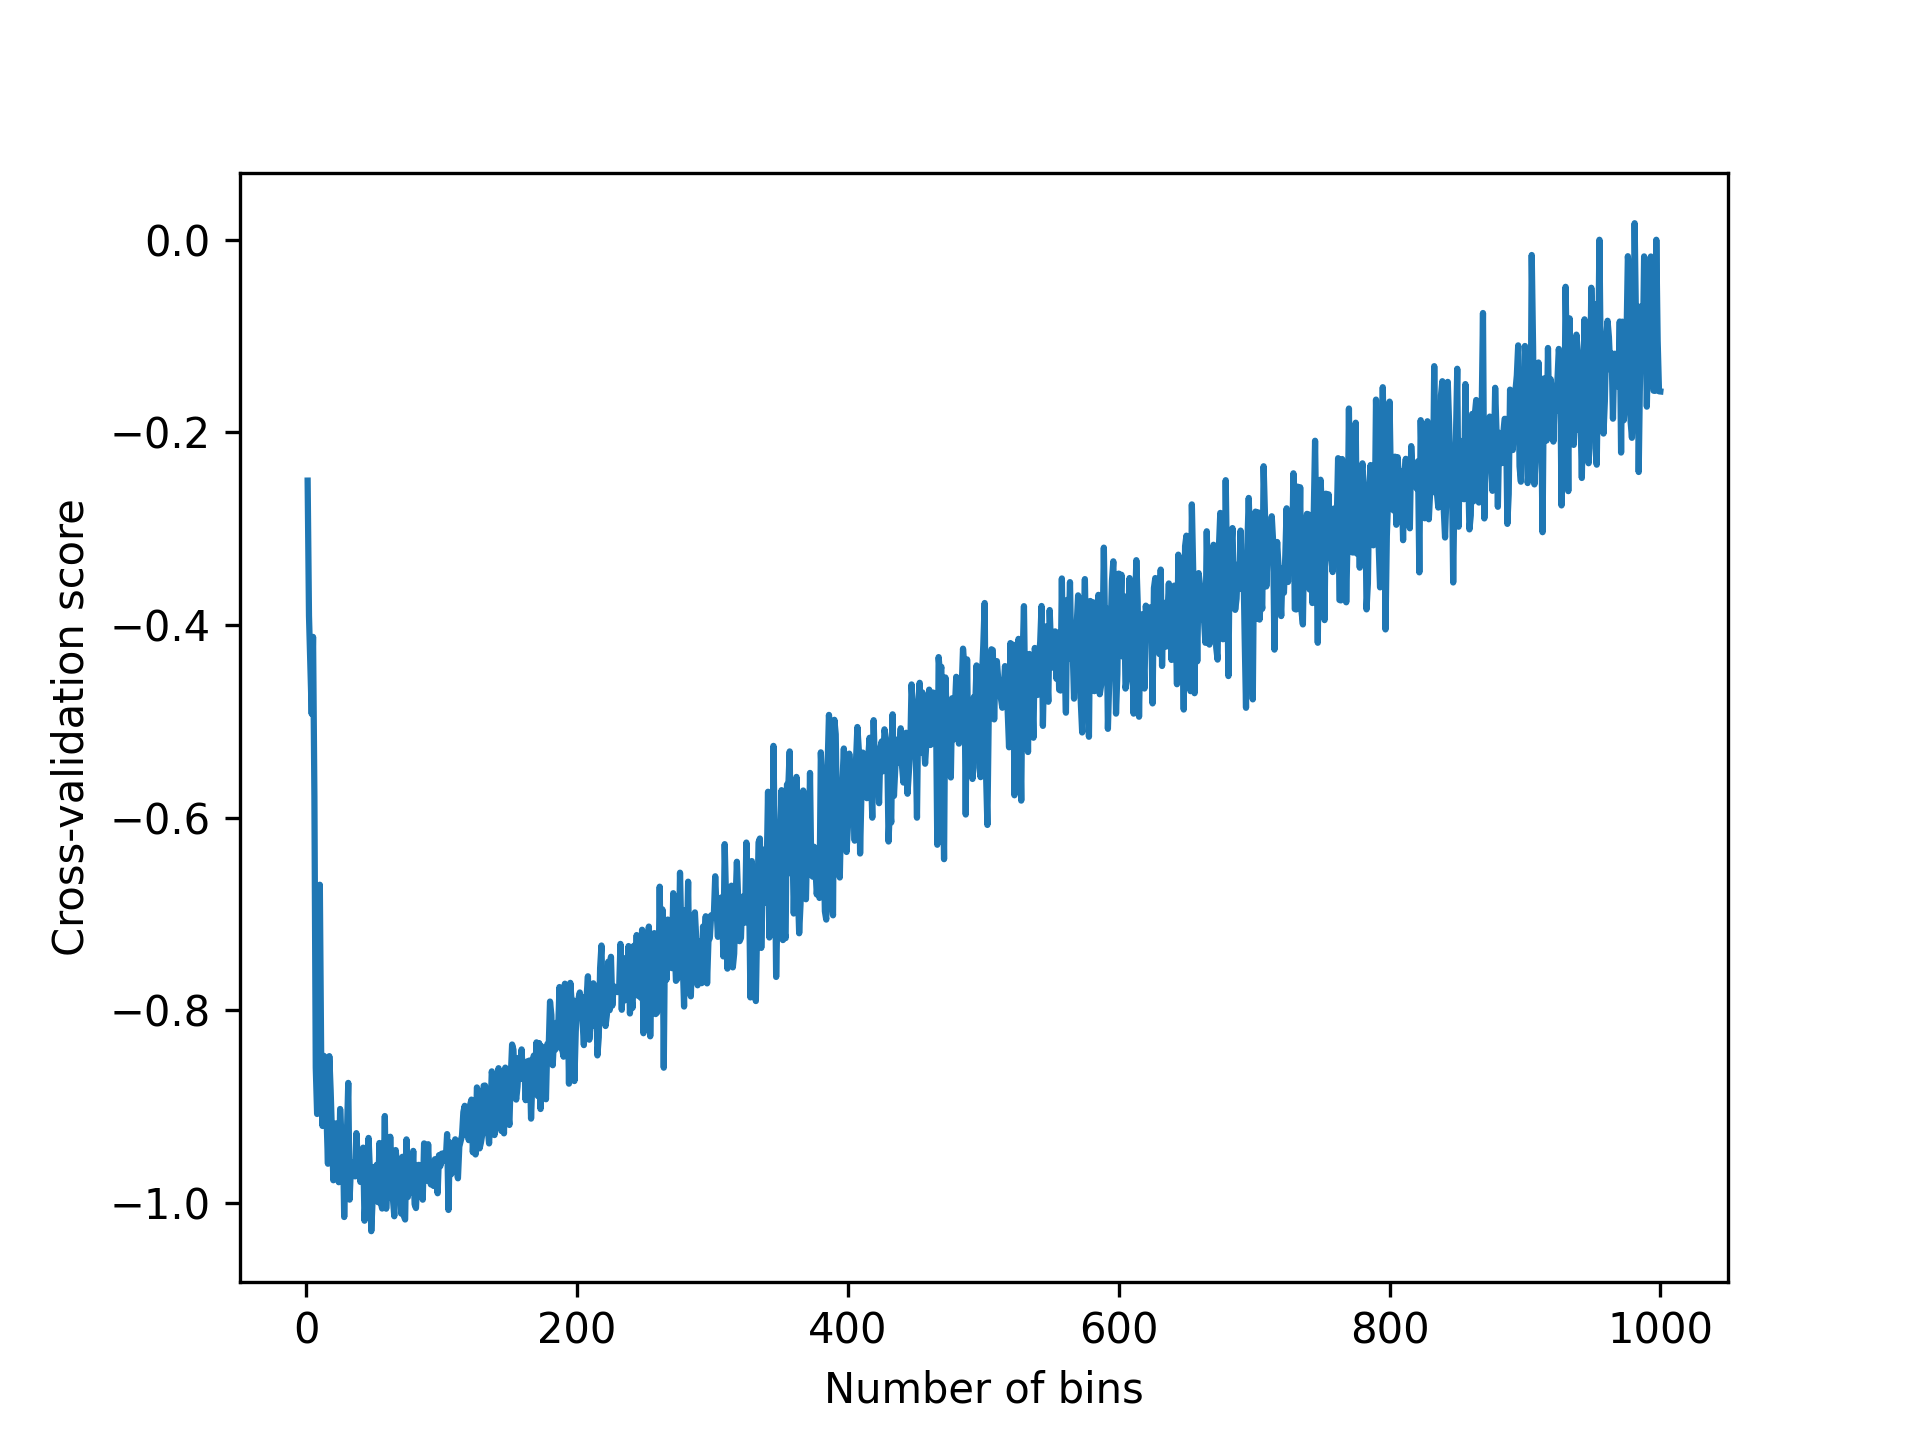
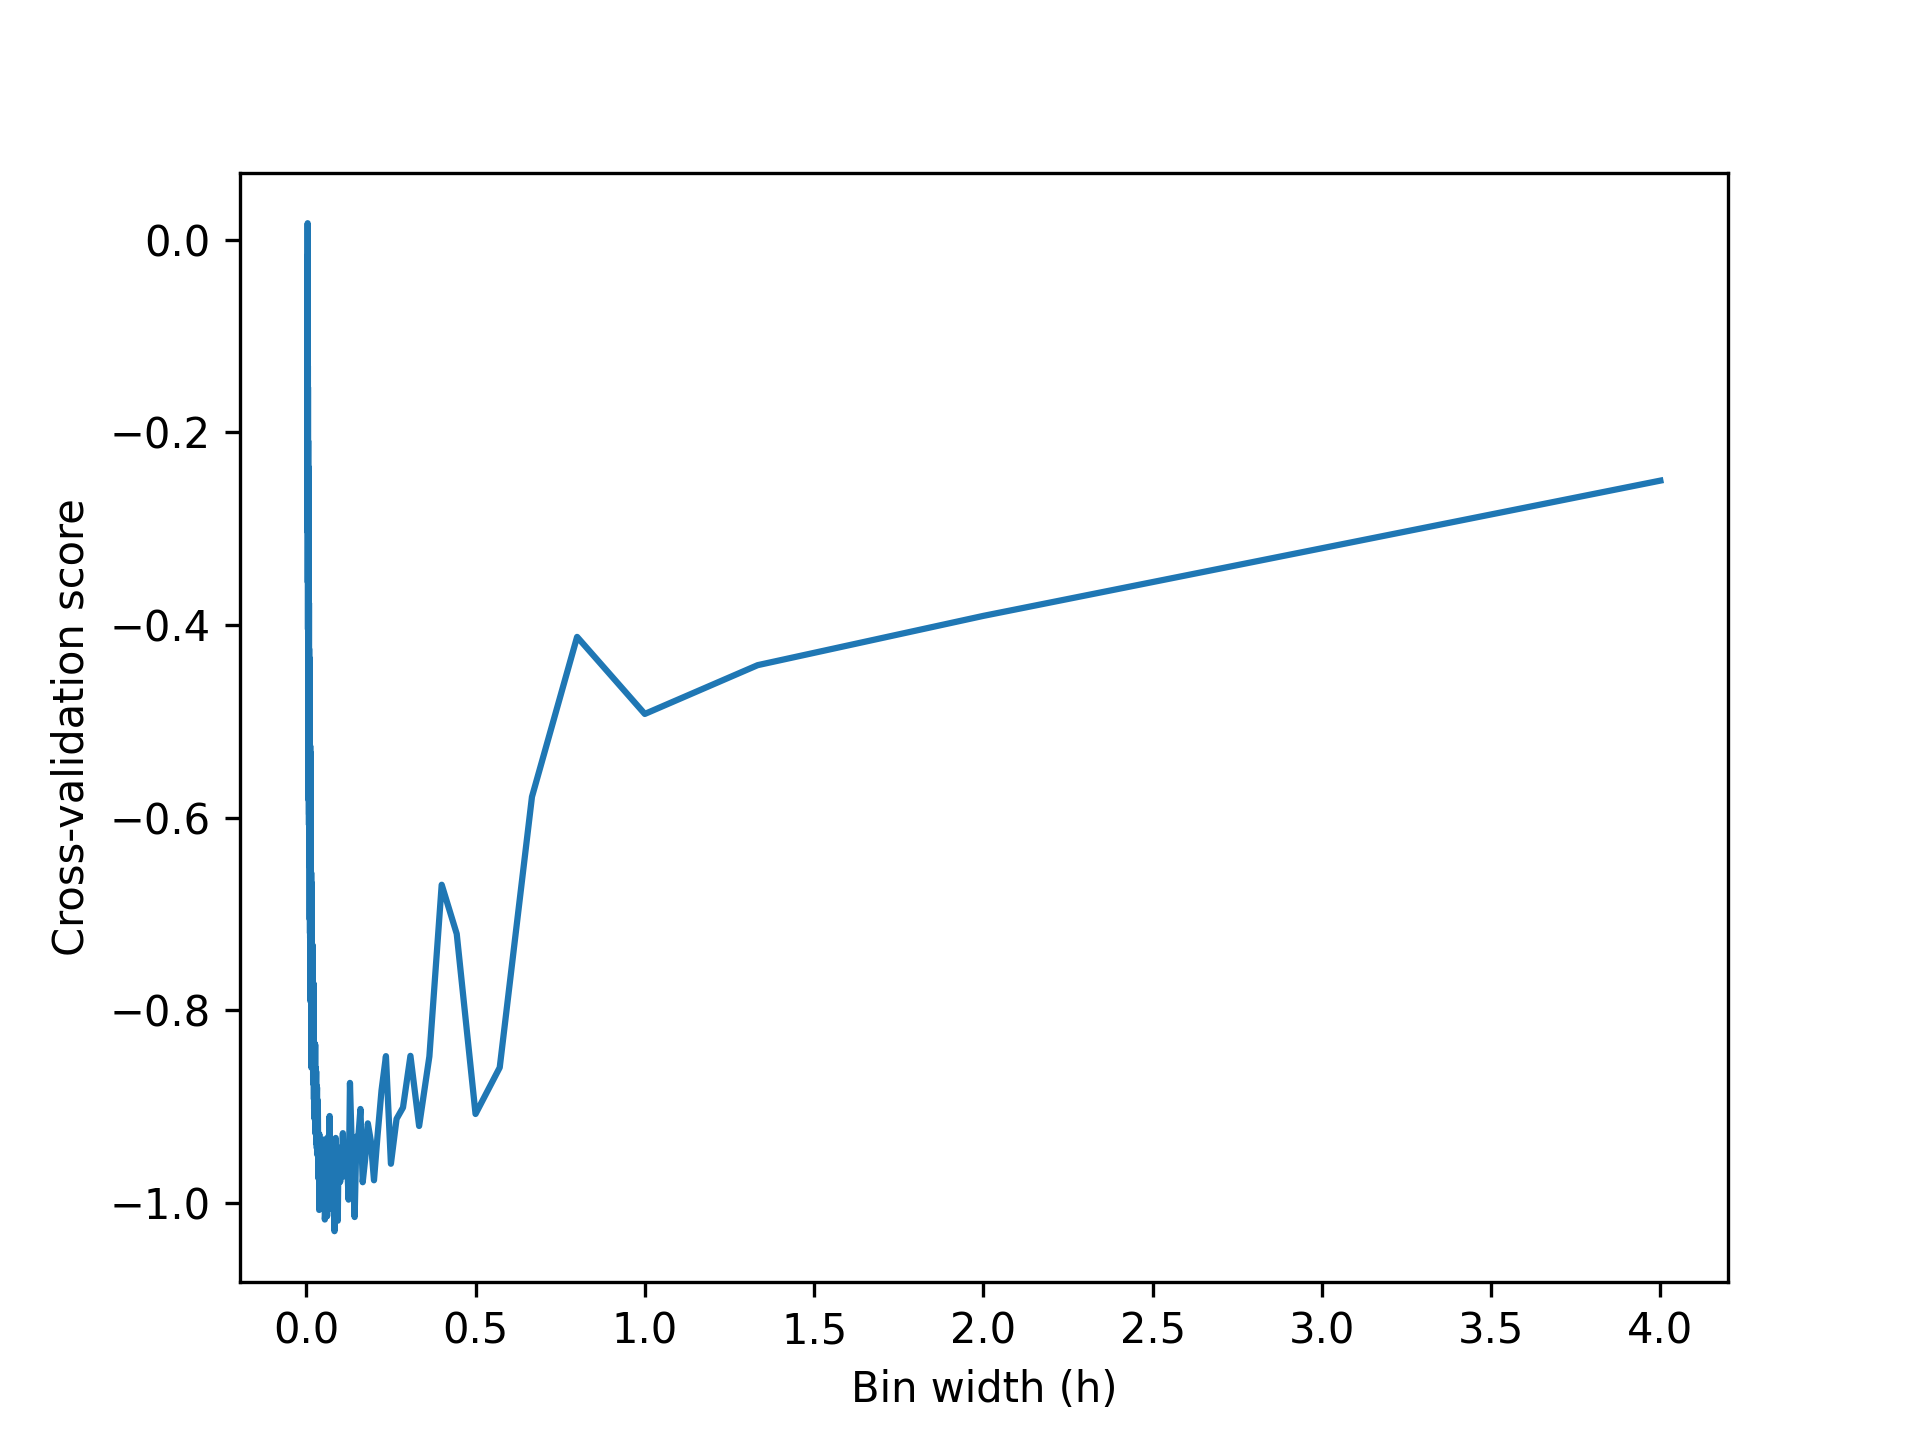
Modify A3-P1

diff --git a/A3/tex/problem1.tex b/A3/tex/problem1.tex
@@ -1,0 +1,60 @@
+\section{Finding optimal bandwidth}
+\subsection{}
+If $x\in B_j$, then
+\begin{align*}
+	\hat{f}(x) & = \frac{\textrm{number of observations within }B_j}{n} \times \frac{1}{\textrm{length of the bin}} \\
+	           & =  \frac{v_j}{n} \times \frac{1}{h}
+\end{align*}
+Since $x$ belongs to exactly one $B_j$, we can write
+\begin{align*}
+	\hat{f}(x)   & = \sum_{j=1}^m \frac{v_j}{nh} I(x\in B_j)                                                                                      \\
+	\hat{f}(x)^2 & = \frac{1}{n^2h^2} \left(\sum_{j=1}^m I(x\in B_j) v_j \right)^2                                                                \\
+	             & = \frac{1}{n^2h^2} \left(\sum_{j=1}^m I(x\in B_j)^2 v_j^2 + 2\sum_{1\leq i < j \leq m} I(x \in B_i)I(x \in B_j)v_i v_j \right)
+\end{align*}
+Again, since $x$ belongs to exactly one $B_j$, i.e., $I(x\in B_j)$ for exactly one $j$. Thus, we can say that $I(x\in B_i) I(x\in B_j) = 0$ for distinct $i$ and $j$.
+Also, $I(x\in B_j)^2 = I(x\in B_j)$, as $I(x\in B_j)$ is either 0 or 1. Thus, we can write
+\begin{align*}
+	\hat{f}(x)^2         & = \frac{1}{n^2h^2} \sum_{j=1}^m I(x\in B_j) v_j^2         \\
+	\int \hat{f}(x)^2 dx & = \frac{1}{n^2h^2} \sum_{j=1}^m v_j^2 \int I(x\in B_j) dx
+\end{align*}
+$I(x\in B_j)$ is one, only over $B_j$. So, the integral is the length of $B_j$, i.e., $h$. Thus, we can write
+\begin{align*}
+	\int \hat{f}(x)^2 dx            & = \frac{1}{n^2h^2} \sum_{j=1}^m v_j^2 h \\
+	\therefore \int \hat{f}(x)^2 dx & = \frac{1}{n^2h} \sum_{j=1}^m v_j^2
+\end{align*}
+\subsection{}
+\subsubsection*{(a)}
+\vspace{-30pt}
+\begin{figure}[H]
+	\centering
+	\includegraphics[width=0.6\textwidth]{images/10binhistogram.png}
+	\caption{Histogram with 10 bins}
+\end{figure}
+The estimated probabilities for the bins are\\
+\texttt{[0.00588235 0.38235294 0.32352941 0.05294118 0.11176471 0.1
+			0.00588235 0.         0.01176471 0.00588235]}
+
+\subsubsection*{(b)}
+The probability distribution is an underfit, as the histogram has too few bins to capture the distribution of the data. The histogram is too smooth and does not capture the rough peaks of the actual distribution.
+
+\subsubsection*{(c)}
+\vspace{-30pt}
+\begin{figure}[H]
+	\centering
+	\includegraphics[width=0.6\textwidth]{images/crossvalidation.png}
+	\caption{Cross-validation score for 1-1000 bins}
+\end{figure}
+
+\subsubsection*{(d)}
+Based on the cross-validation score, the optimal value of bin width is 0.083, and the optimal bin count is 48.
+
+\subsubsection*{(e)}
+\vspace{-30pt}
+\begin{figure}[H]
+	\centering
+	\includegraphics[width=0.6\textwidth]{images/optimalhistogram.png}
+	\caption{Histogram with 48 bins}
+\end{figure}
+
+\subsubsection*{(f)}
+Code is provided in \texttt{code/1.py}.

diff --git a/A3/code/1.py b/A3/code/1.py
@@ -25,21 +25,26 @@ def cross_validation(p, n, h):
 
 
 J = np.zeros(1000)
+binwidth = np.zeros(1000)
 for bincount in range(1, 1001):
     v, bins = np.histogram(df["D (Mpc)"], bins=bincount, range=(0, 4))
+    binwidth[bincount - 1] = bins[1] - bins[0]
     p = v / n
-    J[bincount - 1] = cross_validation(p, n, bins[1] - bins[0])
+    J[bincount - 1] = cross_validation(p, n, binwidth[bincount - 1])
 
 plt.close()
-plt.plot(list(range(1, 1001)), J)
-plt.xlabel("Number of bins")
+plt.plot(binwidth, J)
+plt.xlabel("Bin width (h)")
 plt.ylabel("Cross-validation score")
 plt.savefig("crossvalidation.png")
 
-optimal_h = np.argmin(J) + 1
-print("The optimal bincount is", optimal_h)
+optimal_count = np.argmin(J) + 1
+optimal_h = binwidth[optimal_count - 1]
+print("The optimal bincount is", optimal_count)
+print("The optimal binwidth is", optimal_h)
 
-plt.hist(df["D (Mpc)"], bins=optimal_h, range=(0, 4))
+plt.close()
+plt.hist(df["D (Mpc)"], bins=optimal_count, range=(0, 4))
 plt.xlabel("Distance (Mpc)")
 plt.ylabel("Count")
 plt.savefig("optimalhistogram.png")

diff --git a/A3/main.tex b/A3/main.tex
@@ -9,6 +9,7 @@
 \usepackage{tikz}
 \usepackage{float}
 \usepackage{url}
+\usepackage{bbm}
 
 \newcommand{\myname}{Aayush Borkar, Sandeep Reddy Nallamilli, Yash Sabale}
 \newcommand{\rollNumbers}{23B0944, 23B1006, 23B1043}
@@ -35,7 +36,15 @@
 \clearpage
 
 % write here
-% \input{tex/problem1.tex}
+\input{tex/problem1.tex}
+\newpage
+\input{tex/problem2.tex}
+\newpage
+\input{tex/problem3.tex}
+\newpage
+\input{tex/problem4.tex}
+\newpage
+\input{tex/problem5.tex}
 
 \footnotetext{Running Instructions: \texttt{python ./file\_name.py}}
 

diff --git a/A3/tex/problem2.tex b/A3/tex/problem2.tex
@@ -1,0 +1,1 @@
+\section{Detecting Anomalous Transactions using KDE}

diff --git a/A3/tex/problem5.tex b/A3/tex/problem5.tex
@@ -1,0 +1,1 @@
+\section{Multivariate Insights Unlocked!}

diff --git a/A3/tex/problem4.tex b/A3/tex/problem4.tex
@@ -1,0 +1,1 @@
+\section{Non-parametric regression}

diff --git a/A3/tex/problem3.tex b/A3/tex/problem3.tex
@@ -1,0 +1,1 @@
+\section{Higher-Order Regression}
